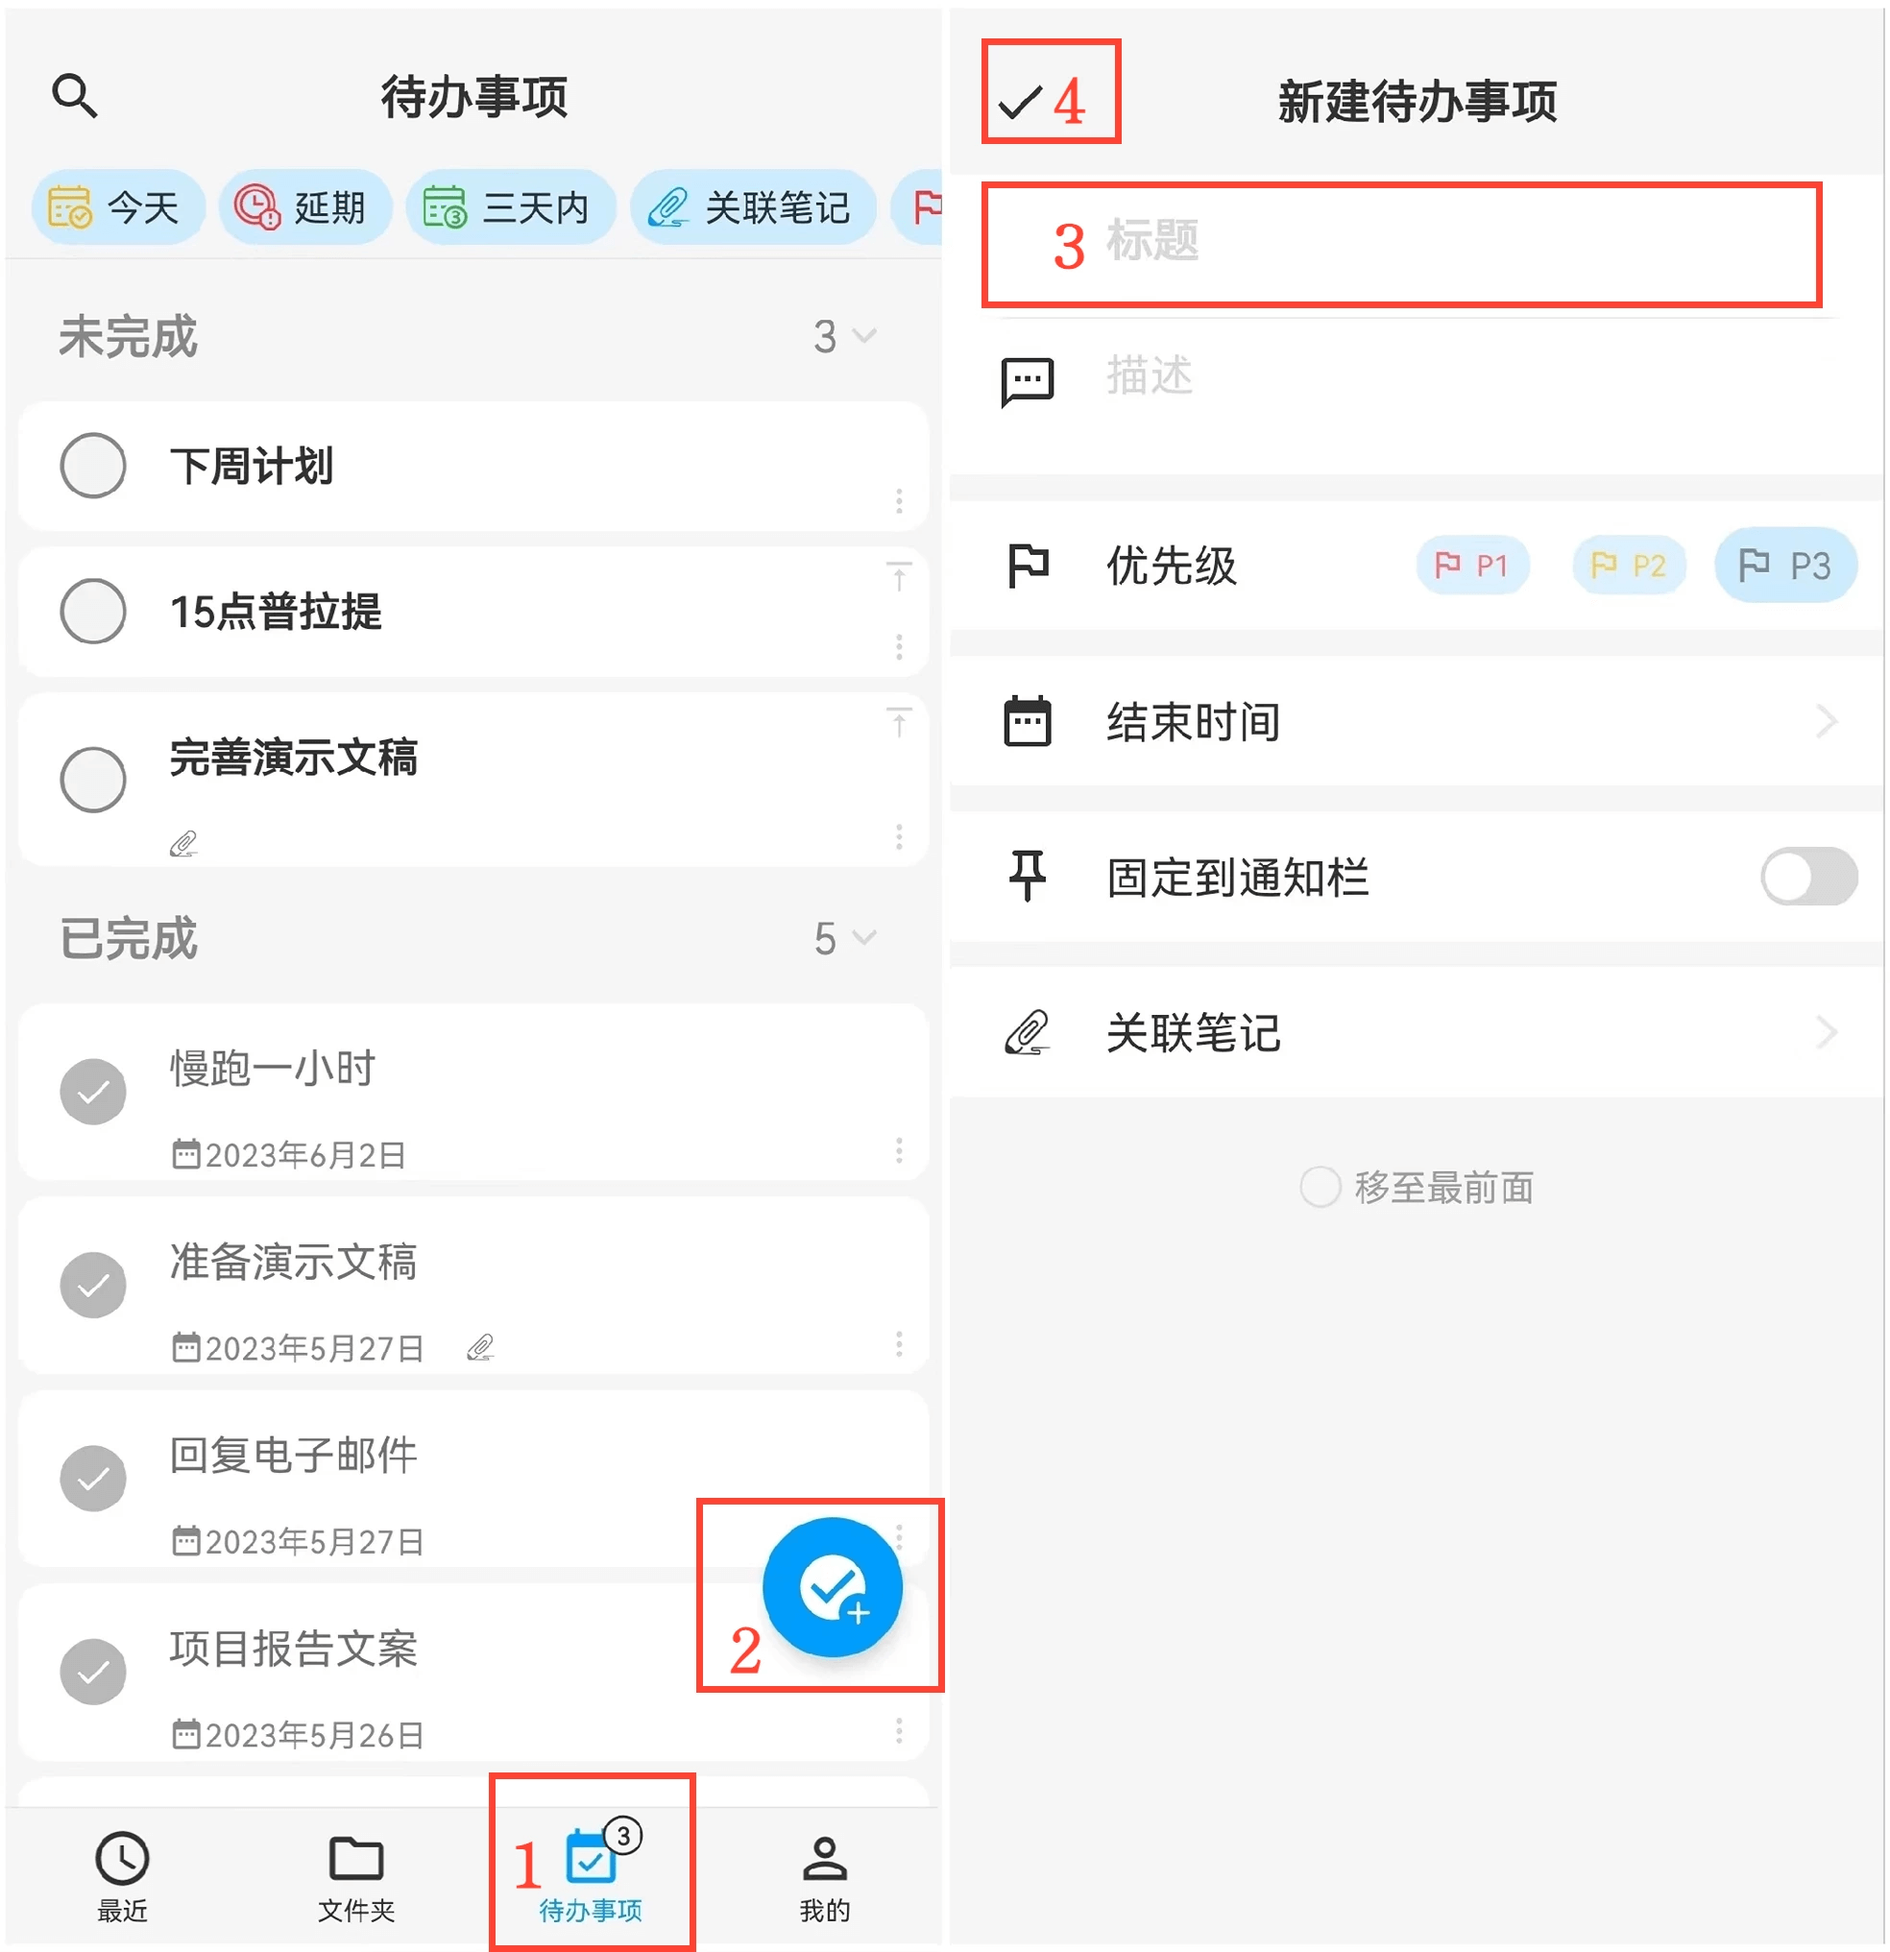
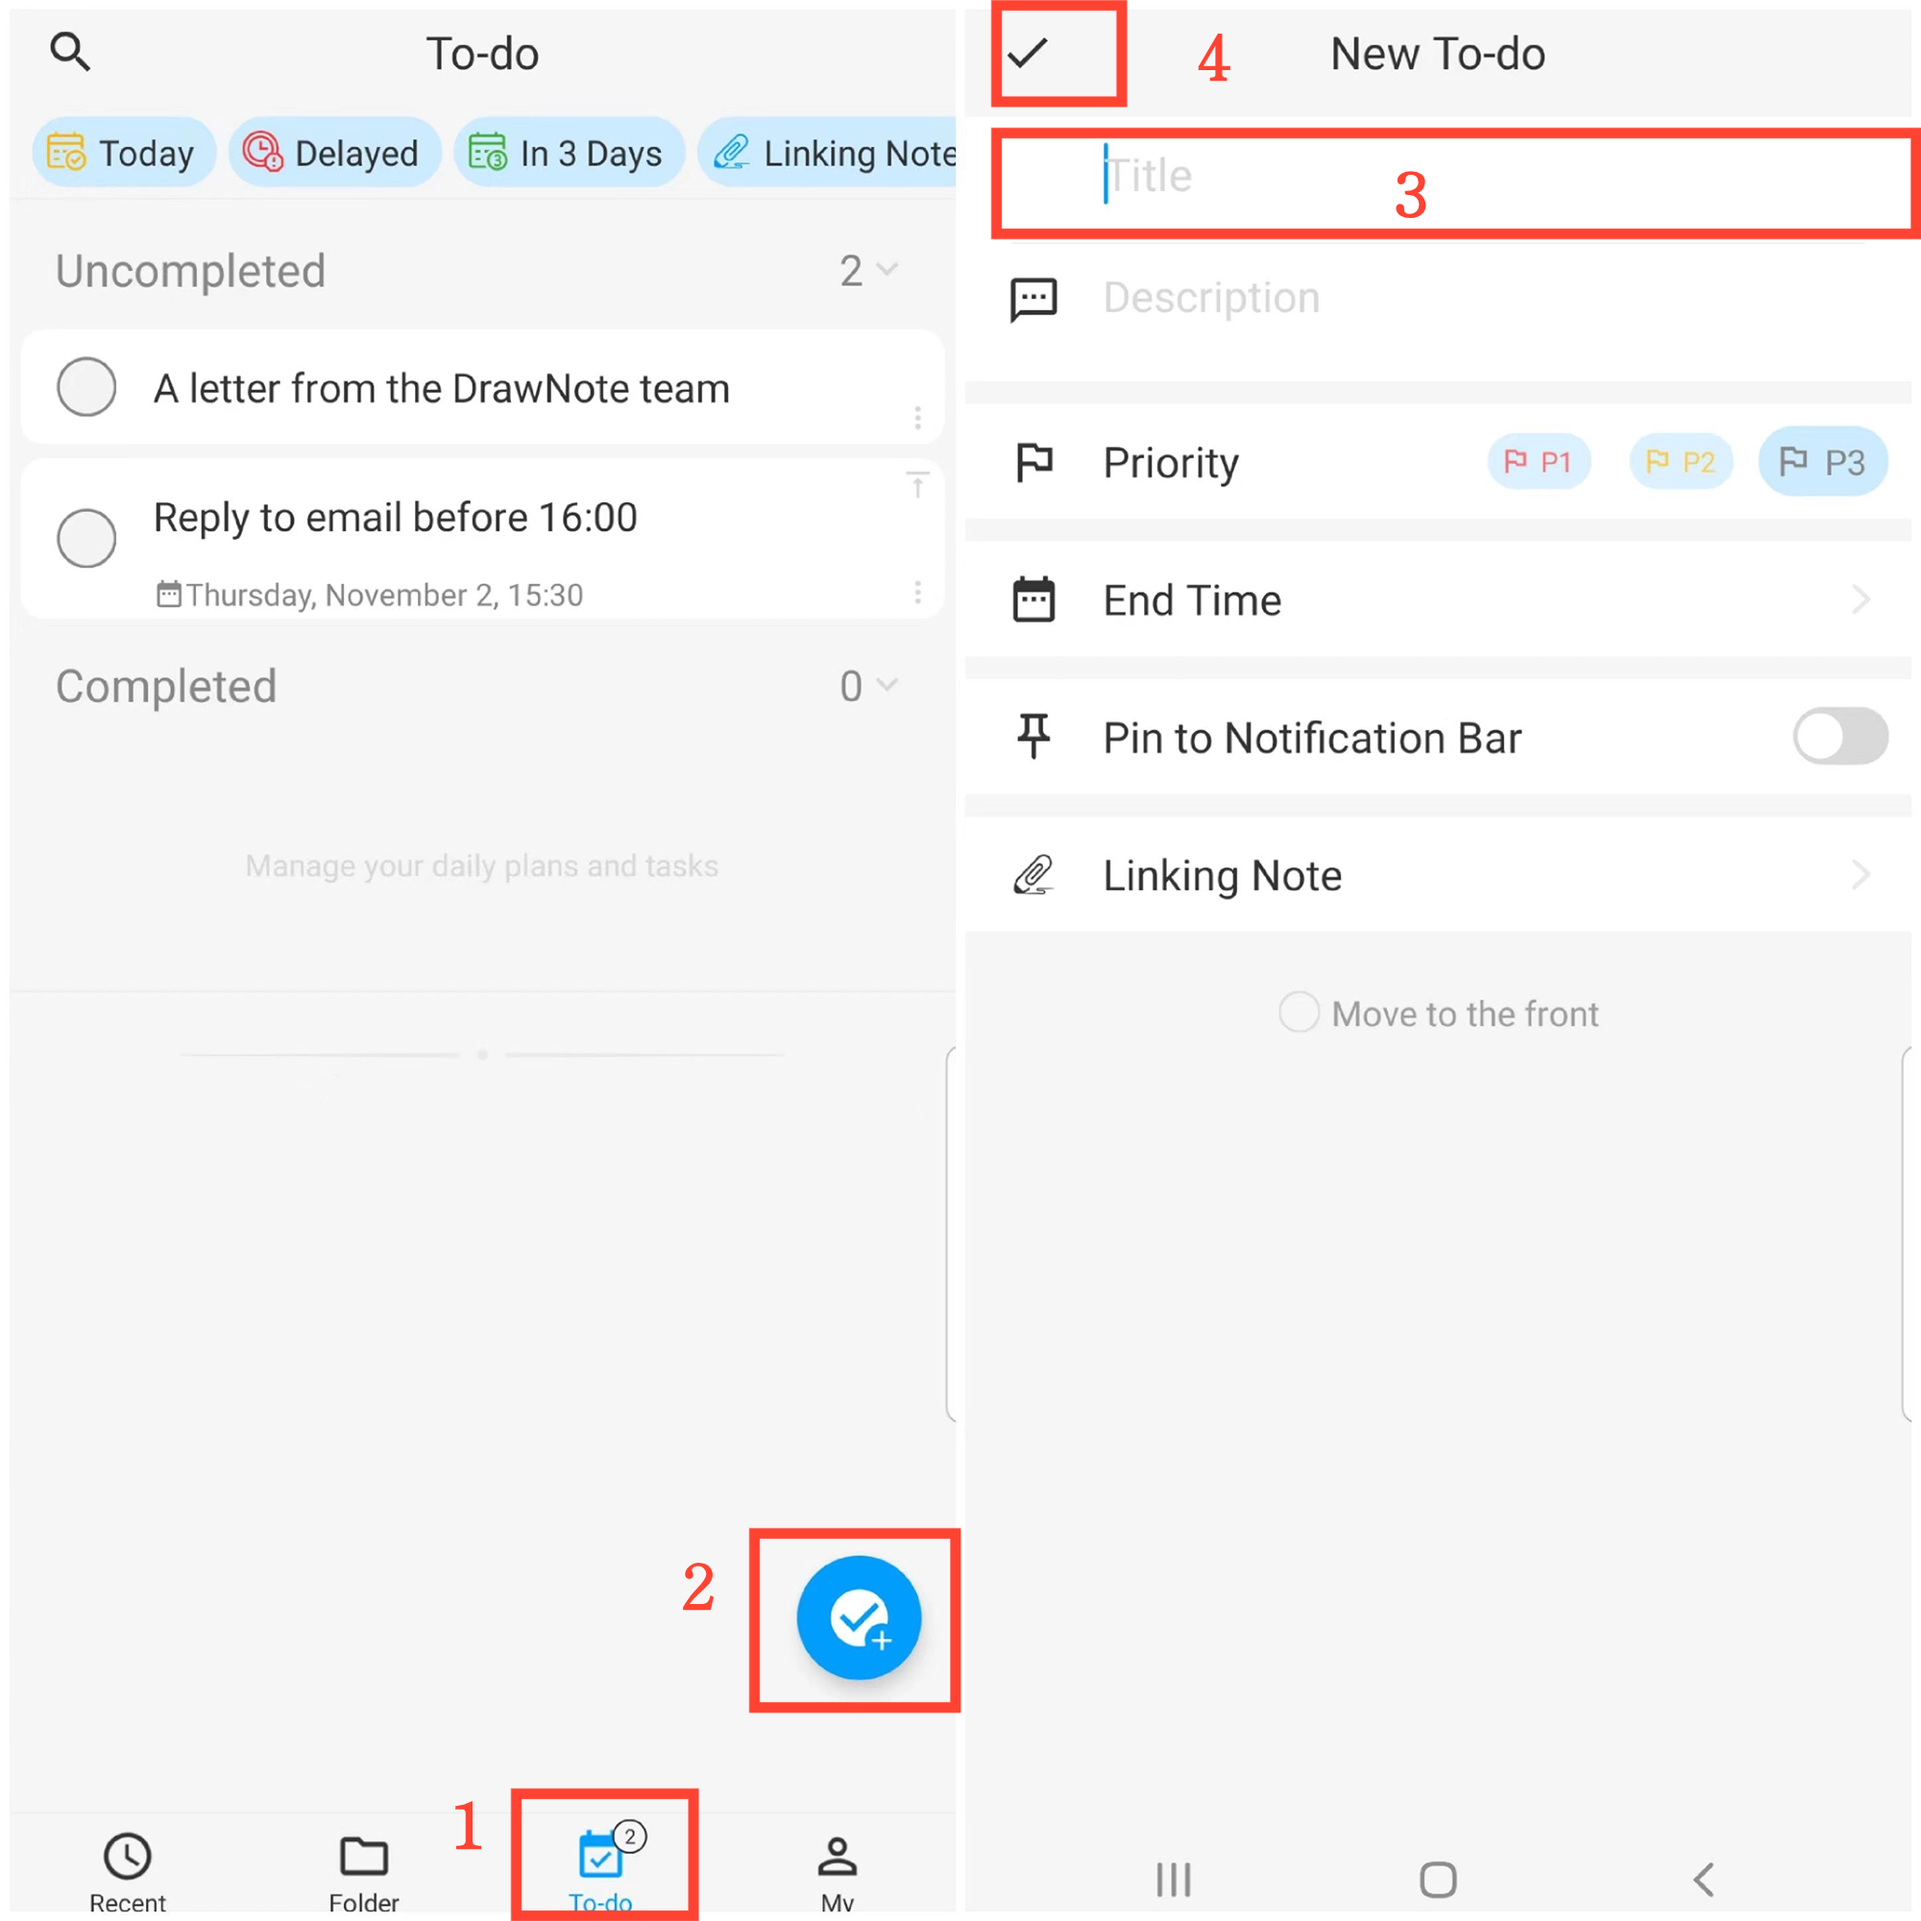
more3

diff --git a/drawnote/manual/en/to_do/associated_notes.md b/drawnote/manual/en/to_do/associated_notes.md
@@ -2,10 +2,10 @@
 
 Associate Notes
 ---
-You can choose to associate relevant notes when creating a to-do item.
+You can choose to "Linking Notes" when creating a to-do item.
 
 This way, you can effortlessly navigate to the linked notes by simply clicking on the to-do item.
 
 Additionally, when viewing a note, you can see markers related to the to-do item, serving as reminders to complete the associated tasks.
 
-![](imgs/associated_notes.png)
+![](imgs/associated_notes1.png)

diff --git a/drawnote/manual/en/q_a/mistouch.md b/drawnote/manual/en/q_a/mistouch.md
@@ -6,4 +6,4 @@ In the Super Note page, click the "⋮" More button in the upper right corner of
 
 Once in Stylus Mode, a "Disable Finger Touch" button will appear at the top of the page. You can click this button to prevent accidental touches with your fingers.
 
-![Stylus Mode](imgs/stylus_mode.png)
+![Stylus Mode](imgs/mistouch.png)

diff --git a/drawnote/manual/en/text_note/page_settings.md b/drawnote/manual/en/text_note/page_settings.md
@@ -6,4 +6,4 @@ Page Settings
 
 Click on the "Page Settings" icon located at the bottom toolbar of the screen to bring up the page settings menu. You can define the page background, line style, line thickness, font margins, line spacing, and font style, among others.
 
-![](imgs/page_settings.png)
+![](imgs/page_settings1.png)

diff --git a/drawnote/manual/en/text_note/rich_text_style.md b/drawnote/manual/en/text_note/rich_text_style.md
@@ -8,4 +8,4 @@ Apart from easily recording text, you can also customize the font color, size, b
 
 Moreover, we've introduced quick input features such as inserting links, inserting timestamps, and inserting pictures to enhance your editing efficiency.
 
-![](imgs/rich_text_style.png)
+![](imgs/rich_text_style1.png)

diff --git a/drawnote/manual/en/to_do/to_do_filter.md b/drawnote/manual/en/to_do/to_do_filter.md
@@ -1,7 +1,7 @@
 [User Manual](/dragonnest/drawnote/manual/en) > [To-Do List](/dragonnest/drawnote/manual/en/to_do) >
 
-Filtering To-Do Items
+To Do Filter
 ---
 On the "To-Do Items" page, you can filter tasks based on time, priority, and associated notes.
 
-![](imgs/to_do_filter.png)
+![](imgs/to_do_filter1.png)

diff --git a/drawnote/manual/en/to_do/create_a_new_to_do.md b/drawnote/manual/en/to_do/create_a_new_to_do.md
@@ -21,4 +21,4 @@ Create a New To-Do Item
 
 3. Move to the Front - In the 'Create a New To-Do' screen, tap the "Move to the Front" button at the bottom to position the task at the very top.
 
-![](imgs/create_a_new_to_do2.png)
+![](imgs/create_a_new_to_do3.png)

diff --git a/drawnote/manual/en/super_note/associated_notes.md b/drawnote/manual/en/super_note/associated_notes.md
@@ -15,7 +15,7 @@ The associated notes feature allows you to easily link related notes, enhancing 
 
 4. Click "Confirm" to add the linked note to the current note.
 
-![](imgs/associated_notes1.png)
+![](imgs/associated_notes.png)
 
 #### Tips
 

diff --git a/drawnote/manual/en/text_note/export_as_txt.md b/drawnote/manual/en/text_note/export_as_txt.md
@@ -6,4 +6,4 @@ Export as TXT
 
 While in the reading mode of Text Note, tap on the "⋮" button located at the top right of the screen and select "Export as TXT".
 
-![](imgs/export_as_txt.png)
+![](imgs/export_as_txt1.png)
